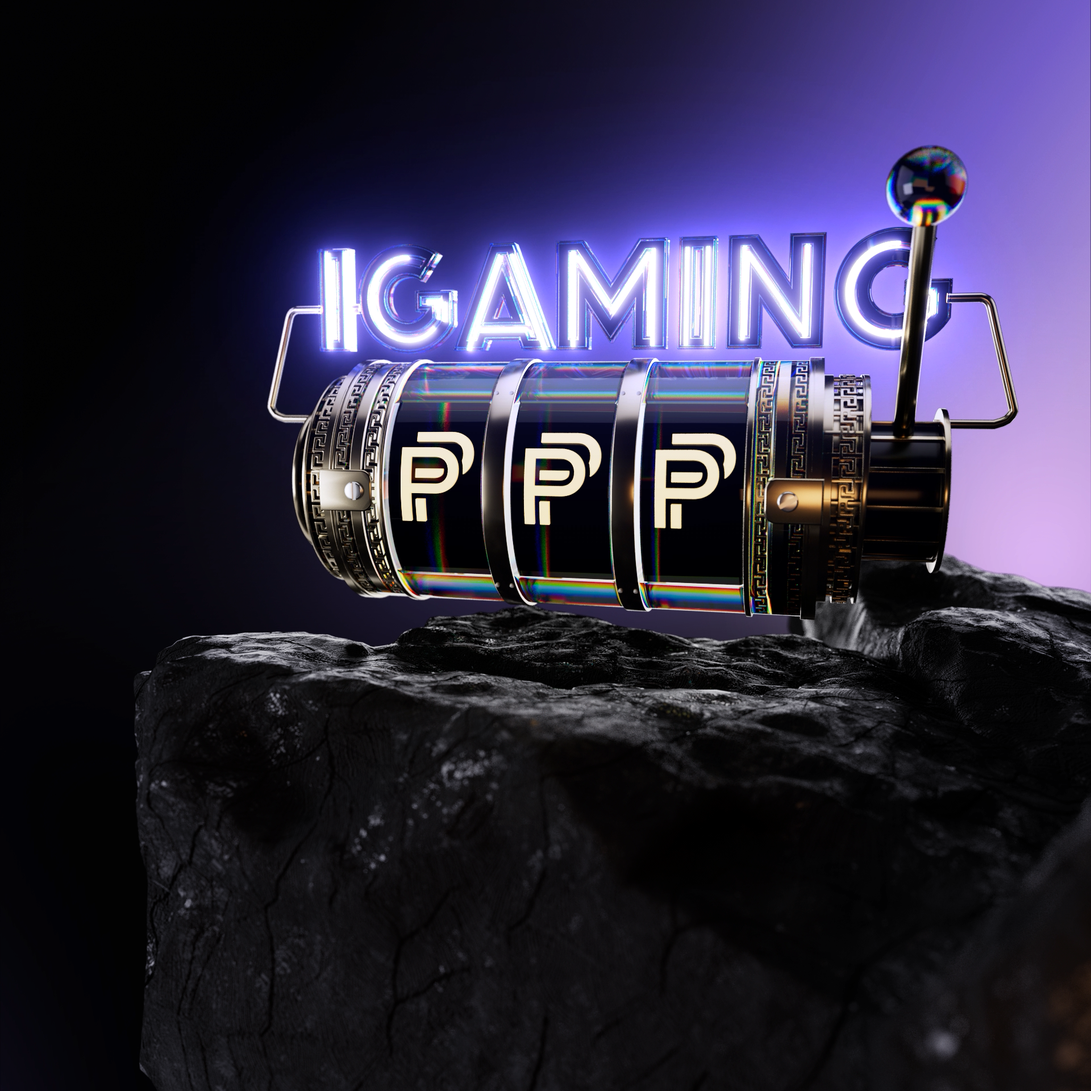
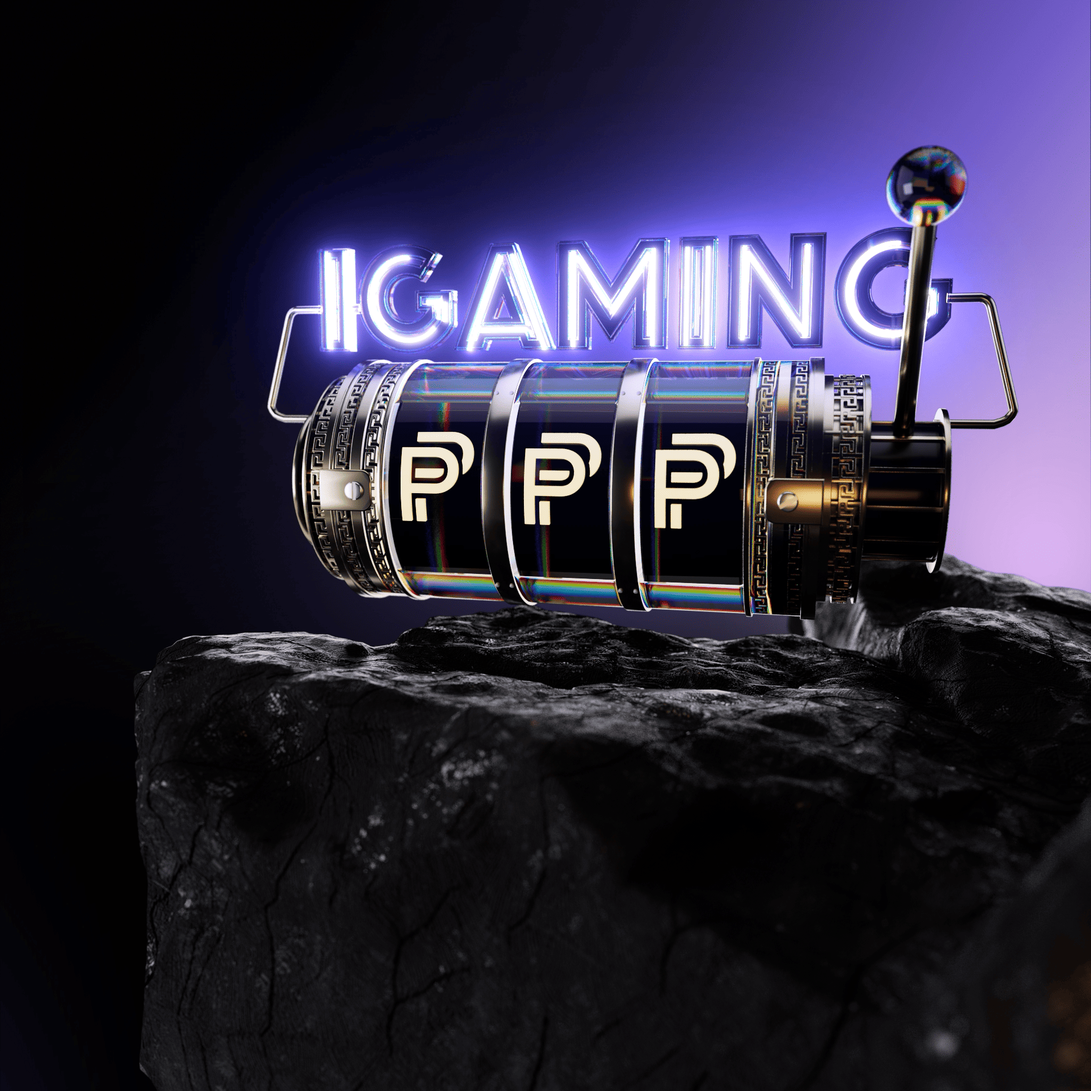
fix video img

diff --git a/style.scss b/style.scss
@@ -208,20 +208,37 @@ header, footer {
 .first-screen {
     overflow: hidden;
     position: relative;
-    video {
+    .video {
         width: 100vw;
-        // height: 100vh;
-        // object-fit: fill;
-        margin-top: -200px;
         position: absolute;
         top: 0;
         left: 0;
         z-index: -1;
-        @media (max-width: $tablet) {
-            margin-top: -60px;
-        }
         @media (max-width: $mobile) {
-            margin-top: 0; 
+            height: 100%;
+        }
+        video {
+            // width: 100vw;
+            margin-top: -200px;   
+            &::-webkit-media-controls {
+                display: none;
+            }       
+            @media (max-width: $tablet) {
+                margin-top: -60px;
+            }
+            @media (max-width: $mobile) {
+                // margin-top: 0; 
+                display: none;
+            }
+        }
+        img {
+            display: none;
+            @media (max-width: $mobile) {
+                display: block;
+                height: 100%;
+                width: 100%;
+                object-fit: cover;
+            }
         }
     }
     video::-webkit-media-controls {
@@ -246,7 +263,7 @@ header, footer {
                 max-width: none;
                 justify-content: flex-end;
                 align-items: center;
-                padding-bottom: 60px;
+                padding-bottom: 50px;
                 h2 {
                     text-align: center;
                     font-size: 40px;

diff --git a/style.css b/style.css
@@ -598,22 +598,44 @@ header, footer {
   overflow: hidden;
   position: relative;
 }
-.first-screen video {
+.first-screen .video {
   width: 100vw;
-  margin-top: -200px;
   position: absolute;
   top: 0;
   left: 0;
   z-index: -1;
 }
+@media (max-width: 860px) {
+  .first-screen .video {
+    height: 100%;
+  }
+}
+.first-screen .video video {
+  margin-top: -200px;
+}
+.first-screen .video video::-webkit-media-controls {
+  display: none;
+}
 @media (max-width: 1160px) {
-  .first-screen video {
+  .first-screen .video video {
     margin-top: -60px;
   }
 }
 @media (max-width: 860px) {
-  .first-screen video {
-    margin-top: 0;
+  .first-screen .video video {
+    display: none;
+  }
+}
+.first-screen .video img {
+  display: none;
+}
+@media (max-width: 860px) {
+  .first-screen .video img {
+    display: block;
+    height: 100%;
+    width: 100%;
+    -o-object-fit: cover;
+       object-fit: cover;
   }
 }
 .first-screen video::-webkit-media-controls {
@@ -646,7 +668,7 @@ header, footer {
     max-width: none;
     justify-content: flex-end;
     align-items: center;
-    padding-bottom: 60px;
+    padding-bottom: 50px;
   }
   .first-screen__content aside h2 {
     text-align: center;

diff --git a/index.html b/index.html
@@ -39,7 +39,10 @@
                         </div>
                     </div>
                 </header>
-                <video src="./video/Video 1920x1500 21mb.mp4" autoplay loop muted preload poster="./img/preview-video.png"></video>
+                <div class="video">
+                    <video src="./video/Video 1920x1500 21mb.mp4" autoplay loop muted preload poster="./img/preview-video.png"></video>
+                    <img src="./img/preview-video_mob.png" alt="Profitov">
+                </div>
                 <div class="first-screen__content container">
                     <aside class="">
                         <ul class="language">
